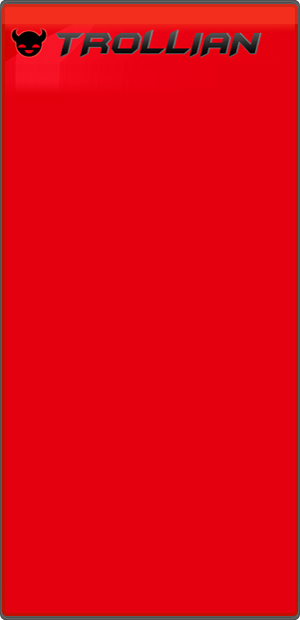
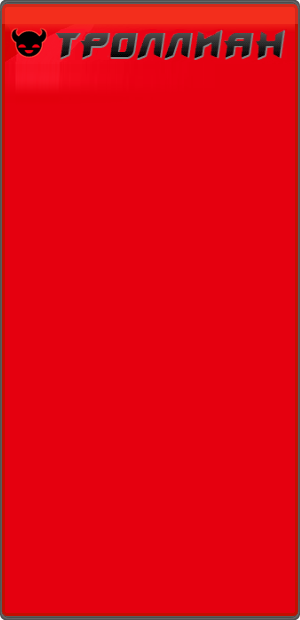
Перевод графики в Teal Trollian, trollian2.5, pesterchum2.5, MSChum

Changed region(s): [[0.27, 0.0306, 0.96, 0.1226], [0.18, 0.0613, 0.24, 0.0919], [0.24, 0.0306, 0.27, 0.0613]]

diff --git a/README.md b/README.md
@@ -200,7 +200,7 @@ Dpeta крайне рекомендует прочитать эти руково
 - [ ] Проверка
 * MSChum:
 - [X] Текст
-- [ ] Визуал
+- [X] Визуал
 - [ ] Проверка
 * niccage:
 - [X] Текст
@@ -216,7 +216,7 @@ Dpeta крайне рекомендует прочитать эти руково
 - [X] Проверка
 * pesterchum2.5:
 - [X] Текст
-- [ ] Визуал
+- [X] Визуал
 - [ ] Проверка
 * sbahj:
 - [X] Текст
@@ -239,7 +239,7 @@ Dpeta крайне рекомендует прочитать эти руково
 - [ ] Проверка
 * Teal Trollian:
 - [X] Текст
-- [ ] Визуал
+- [X] Визуал
 - [ ] Проверка
 * trollian:
 - [X] Текст
@@ -247,7 +247,7 @@ Dpeta крайне рекомендует прочитать эти руково
 - [ ] Проверка
 * trollian2.5:
 - [X] Текст
-- [ ] Визуал
+- [X] Визуал
 - [ ] Проверка
 * typewriter:
 - [X] Текст
